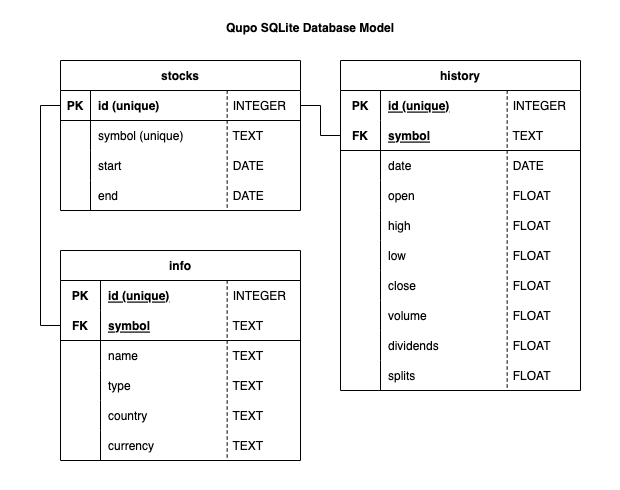
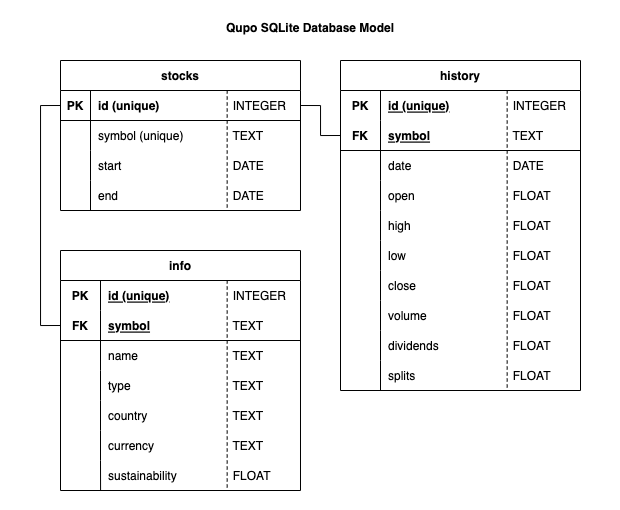
Use esg values from yfinance library instead from quandl

Changed region(s): [[0.0613, 0.0306, 0.9194, 0.7959], [0.0613, 0.4898, 0.4903, 0.9796], [0.4903, 0.1837, 0.521, 0.2143]]

diff --git a/api/qupo_backend/tickers_utilities.py b/api/qupo_backend/tickers_utilities.py
@@ -1,6 +1,5 @@
 import json
 
-import quandl
 import pandas as pd
 import yfinance
 from types import SimpleNamespace
@@ -11,8 +10,8 @@ from sqlalchemy.orm import Session
 from .config import settings
 from .db import crud, schemas
 from .db.operations import (save_finance_data, get_data_in_timeframe,
-                            update_history, deconstruct_yhistory)
-from .models.finance_classes import PortfoliosModel
+                            update_history, deconstruct_yhistory, get_sustainability)
+from .models.finance_classes import PortfolioModel
 
 
 def filter_stocks(stocks):
@@ -77,7 +76,7 @@ def get_data_of_symbol(stock: schemas.StockBase, db: Session):
             history = deconstruct_yhistory(yhistory)
 
             info = schemas.InfoCreate(symbol=stock.symbol, name=data.info['shortName'], type=data.info['quoteType'],
-                                      country=data.info['country'], currency=data.info['currency'])
+                                      country=data.info['country'], currency=data.info['currency'], sustainability=get_sustainability(data))
 
             return SimpleNamespace(**{'symbol': stock.symbol, 'start': stock.start,
                                       'end': stock.end, 'info': [info], 'history': history})
@@ -86,22 +85,16 @@ def get_data_of_symbol(stock: schemas.StockBase, db: Session):
     raise HTTPException(status_code=500, detail=f'Unable to return stock data of symbol: {stock.symbol}.')
 
 
-def extract_quandl_data(api_key=None, identifier='UPR/EXT'):
-    if api_key is None:
-        api_key = settings.nasdaq_api_key
-    return quandl.get_table(identifier, api_key=api_key, paginate=True)
-
-
-def stock_data_to_dataframe(portfolios_model: PortfoliosModel):
-    expected_rate_of_return_pa = pd.DataFrame(data=portfolios_model.expected_rates_of_return_pa,
-                                              index=portfolios_model.stocks_tickers,
+def stock_data_to_dataframe(portfolio_model: PortfolioModel):
+    expected_rate_of_return_pa = pd.DataFrame(data=portfolio_model.expected_rates_of_return_pa,
+                                              index=portfolio_model.stocks_tickers,
                                               columns=['RateOfReturn'])
-    expected_esg_ratings = pd.DataFrame(data=portfolios_model.expected_esg_ratings,
-                                        index=portfolios_model.stocks_tickers,
+    expected_esg_ratings = pd.DataFrame(data=portfolio_model.expected_esg_ratings,
+                                        index=portfolio_model.stocks_tickers,
                                         columns=['ESGRating'])
-    expected_covariance_pa = portfolios_model.expected_covariance_pa
-    expected_volatility_pa = pd.DataFrame(portfolios_model.expected_volatilities_pa,
-                                          index=portfolios_model.stocks_tickers,
+    expected_covariance_pa = portfolio_model.expected_covariance_pa
+    expected_volatility_pa = pd.DataFrame(portfolio_model.expected_volatilities_pa,
+                                          index=portfolio_model.stocks_tickers,
                                           columns=['Volatility'])
     return pd.concat([expected_rate_of_return_pa, expected_volatility_pa,
                       expected_esg_ratings, expected_covariance_pa], axis=1)

diff --git a/api/test/stockdata_integrator_runscript.py b/api/test/stockdata_integrator_runscript.py
@@ -3,10 +3,48 @@ import os.path
 import warnings
 import json
 import yfinance
-from qupo_backend.models.finance_classes import Stock, Portfolio, PortfoliosModel
-from qupo_backend.tickers_utilities import extract_quandl_data, stock_data_to_dataframe
+import quandl
+import numpy as np
+from dataclasses import dataclass, InitVar
+from qupo_backend.models.finance_classes import Stock, PortfolioModel
+import qupo_backend.models.finance_utilities as finance_utilities
+from qupo_backend.tickers_utilities import stock_data_to_dataframe
+from qupo_backend.config import settings
 
 sys.path.append(os.path.abspath(os.path.join(os.path.dirname(__file__), os.path.pardir)))
+
+
+@dataclass
+class Portfolio:
+    stocks: InitVar[list[Stock]]
+    stock_weights: InitVar[np.ndarray] = np.array([])
+    risk_free_return_pa: InitVar[float] = 0
+
+    def __post_init__(self, stocks, stock_weights, risk_free_return_pa):
+        self.stock_tickers = [stock.ticker for stock in stocks] + ['Acct']
+        self.stock_full_names = [stock.full_name for stock in stocks] + ['Bank Account']
+        if stock_weights.size == 0:
+            stock_weights = np.append(np.zeros(len(self.stock_tickers) - 1), 1)
+        elif np.sum(stock_weights) > 1:
+            stock_weights = stock_weights / np.sum(stock_weights)
+            print(f'Sum of stock weights >1, normalized to {stock_weights}')
+        self.price_time_series = np.dot(stock_weights, np.array(
+            [stock.price_time_series for stock in stocks] + [stocks[0].price_time_series * 0]))  # sum of weighted stock price time series
+        # annualized historic returns [%] and relative volatility (standart deviation of return) [%]
+        # annualized historic mean returns [%]
+        self.historic_rate_of_return_pa = finance_utilities.calc_historic_rate_of_return_pa(self.price_time_series)
+        # annualized historic volatility relative to hist. RoR pa[%]
+        self.historic_volatility_pa = finance_utilities.calc_historic_volatility_pa(self.price_time_series)
+        self.historic_sharpe_ratio = finance_utilities.calc_historic_sharpe_ratio(self.historic_rate_of_return_pa,
+                                                                                  risk_free_return_pa, self.historic_volatility_pa)
+        # sum of weighted stock price time series
+        self.historic_esg_value = np.dot(stock_weights, np.array(
+            [stock.historic_esg_value for stock in stocks] + [0]))
+
+
+def extract_quandl_data(api_key=None, identifier='UPR/EXT'):
+    quandl.ApiConfig.api_key = settings.nasdaq_api_key
+    return quandl.get_table(identifier, qopts={'columns': ['company_name', 'net_impact_ratio']})
 
 
 def extract_stock_tickers(scope='DAX'):
@@ -61,7 +99,7 @@ def portfolios_df_from_default_stock_data():
     print(portfolio)
 
     # setup mathematical model
-    portfolios_model = PortfoliosModel(stocks)
+    portfolios_model = PortfolioModel(stocks)
     print(portfolios_model)
 
     portfolios_model_df = stock_data_to_dataframe(portfolios_model)

diff --git a/api/qupo_backend/models/portfolio_model.py b/api/qupo_backend/models/portfolio_model.py
@@ -1,46 +1,35 @@
 import pandas as pd
 
-from .finance_classes import Stock, PortfoliosModel
+from .finance_classes import Stock, PortfolioModel
 from .finance_utilities import convert_business_to_osqp_model
 from .optimization_backend.backend_runner import Providers, run_job
 from .optimization_backend.optimization_classes import Problem, Job, Solver
 
 import qupo_backend.db.schemas as schemas
-from qupo_backend.tickers_utilities import get_data_of_symbol
-from qupo_backend.tickers_utilities import extract_quandl_data, stock_data_to_dataframe
+from qupo_backend.tickers_utilities import get_data_of_symbol, stock_data_to_dataframe
 
 
 def portfolio_df_from_stock_data(db, symbols, start='2018-01-01', end='2018-02-28'):
-    esg_data = extract_quandl_data()
-
     # create stock and portfolio objects for frontend
     stocks = []
 
     for symbol in symbols:
         stock_data = get_data_of_symbol(schemas.StockBase(symbol=symbol, start=start, end=end), db)
         if (stock_data):
-            try:
-                matches = [stock_data.info[0].name.startswith(company_name.upper()) for company_name in esg_data.company_name]
-                if any(matches):
-                    esg_data_value = esg_data[matches].net_impact_ratio.values[0]
-                else:
-                    esg_data_value = 0
-            except KeyError:
-                esg_data_value = 0
-
             close_values = [h.close for h in stock_data.history]
-            stock = Stock(pd.Series(data=close_values), ticker=symbol, full_name=stock_data.info[0].name, historic_esg_value=esg_data_value)
+            stock = Stock(pd.Series(data=close_values), ticker=symbol, full_name=stock_data.info[0].name,
+                          historic_esg_value=stock_data.info[0].sustainability)
             stocks = stocks + [stock]
 
     # setup mathematical model
-    portfolios_model = PortfoliosModel(stocks)
-    portfolios_model_df = stock_data_to_dataframe(portfolios_model)
+    portfolio_model = PortfolioModel(stocks)
+    portfolio_model_df = stock_data_to_dataframe(portfolio_model)
 
-    return portfolios_model_df
+    return portfolio_model_df, portfolio_model
 
 
 def calculate_model(db, model, symbols, risk_weight=0.0001, esg_weight=0.0001):
-    portfolio_model_df = portfolio_df_from_stock_data(db, symbols)
+    portfolio_model_df, portfolio_model = portfolio_df_from_stock_data(db, symbols)
     # create abstract representation of problem (to identify and leverage hidden structure)
     P, q, A, l, u = convert_business_to_osqp_model(portfolio_model_df, risk_weight, esg_weight)
 
@@ -67,6 +56,7 @@ def calculate_model(db, model, symbols, risk_weight=0.0001, esg_weight=0.0001):
 
     return {
         **data,
+        'stock_names': portfolio_model.stocks_full_names,
         'objective_value': job.result.objective_value,
         'rate_of_return': job.result.rate_of_return,
         'variance': job.result.variance,

diff --git a/api/qupo_backend/models/finance_classes.py b/api/qupo_backend/models/finance_classes.py
@@ -27,45 +27,16 @@ class Stock:
 
 
 @dataclass
-class Portfolio:
-    stocks: InitVar[list[Stock]]
-    stock_weights: InitVar[np.ndarray] = np.array([])
-    risk_free_return_pa: InitVar[float] = 0
-
-    def __post_init__(self, stocks, stock_weights, risk_free_return_pa):
-        self.stock_tickers = [stock.ticker for stock in stocks] + ['Acct']
-        self.stock_full_names = [stock.full_name for stock in stocks] + ['Bank Account']
-        if stock_weights.size == 0:
-            stock_weights = np.append(np.zeros(len(self.stock_tickers) - 1), 1)
-        elif np.sum(stock_weights) > 1:
-            stock_weights = stock_weights / np.sum(stock_weights)
-            print(f'Sum of stock weights >1, normalized to {stock_weights}')
-        self.price_time_series = np.dot(stock_weights, np.array(
-            [stock.price_time_series for stock in stocks] + [stocks[0].price_time_series * 0]))  # sum of weighted stock price time series
-        # annualized historic returns [%] and relative volatility (standart deviation of return) [%]
-        # annualized historic mean returns [%]
-        self.historic_rate_of_return_pa = finance_utilities.calc_historic_rate_of_return_pa(self.price_time_series)
-        # annualized historic volatility relative to hist. RoR pa[%]
-        self.historic_volatility_pa = finance_utilities.calc_historic_volatility_pa(self.price_time_series)
-        self.historic_sharpe_ratio = finance_utilities.calc_historic_sharpe_ratio(self.historic_rate_of_return_pa,
-                                                                                  risk_free_return_pa, self.historic_volatility_pa)
-        # sum of weighted stock price time series
-        self.historic_esg_value = np.dot(stock_weights, np.array(
-            [stock.historic_esg_value for stock in stocks] + [0]))
-
-
-@dataclass
-class PortfoliosModel():
+class PortfolioModel():
     stocks: InitVar[list[Stock]]
     risk_free_return_pa: InitVar[float] = 0.0
 
     def __post_init__(self, stocks, risk_free_return_pa):
-        stocks_full_names = ['Bank Account']
-        stocks_tickers = ['Acct']
-        stocks_esg_data = [0.0]
-        stocks_expected_rate_of_return_pa = np.array([0.0])
-        stocks_time_series = stocks[0].price_time_series * 0.0 + 1.0
-        stocks_time_series = stocks_time_series.to_frame(name=stocks_tickers[0])
+        stocks_full_names = []
+        stocks_tickers = []
+        stocks_esg_data = []
+        stocks_expected_rate_of_return_pa = np.array([])
+        stocks_time_series = pd.DataFrame()
 
         for stock in stocks:
             stocks_full_names = stocks_full_names + [stock.full_name]

diff --git a/api/qupo_backend/db/operations.py b/api/qupo_backend/db/operations.py
@@ -20,6 +20,12 @@ def get_data_from_yahoo(symbol: str, period: str):
     return data, yhistory
 
 
+def get_sustainability(data):
+    if (data.sustainability is not None):
+        return data.sustainability.loc['totalEsg']['Value']
+    return 0
+
+
 def construct_history_row(date, rowData):
     cleanedRowData = [0 if value is None else value for value in rowData]
 
@@ -42,8 +48,9 @@ def save_finance_data(db: Session, stock: schemas.StockBase):
 
     if (len(yhistory['data']) > 0):
         history = deconstruct_yhistory(yhistory)
-        info = schemas.InfoCreate(name=data.info['shortName'], type=data.info['quoteType'],
-                                  country=data.info['country'], currency=data.info['currency'])
+        sustainability = get_sustainability(data)
+        info = schemas.InfoCreate(name=data.info['shortName'], type=data.info['quoteType'], country=data.info['country'],
+                                  currency=data.info['currency'], sustainability=sustainability)
 
         crud.create_stock(db, stock)
         crud.create_stock_info(db, info, stock.symbol)

diff --git a/api/qupo_backend/db/crud.py b/api/qupo_backend/db/crud.py
@@ -31,8 +31,8 @@ def create_stock(db: Session, stock: schemas.StockCreate):
 
 
 def create_stock_info(db: Session, info: schemas.InfoCreate, symbol: str):
-    db_info = models.Info(symbol=symbol, name=info.name, type=info.type,
-                          country=info.country, currency=info.currency)
+    db_info = models.Info(symbol=symbol, name=info.name, type=info.type, country=info.country,
+                          currency=info.currency, sustainability=info.sustainability)
     db.add(db_info)
     return db_info
 

diff --git a/api/qupo_backend/config.py b/api/qupo_backend/config.py
@@ -10,7 +10,6 @@ class Settings(BaseSettings):
     azure_name: str
     azure_subscription_id: str
     ibmq_client_secret: str
-    nasdaq_api_key: str
     use_db: bool = True
     sqllite_db_url: str = 'sqlite:///./qupo_backend/db/finance.db'
 

diff --git a/api/qupo_backend/db/models.py b/api/qupo_backend/db/models.py
@@ -25,6 +25,7 @@ class Info(Base):
     type = Column(String)
     country = Column(String)
     currency = Column(String)
+    sustainability = Column(Float)
 
     stock = relationship('Stock', back_populates='info')
 

diff --git a/api/qupo_backend/db/schemas.py b/api/qupo_backend/db/schemas.py
@@ -31,6 +31,7 @@ class InfoBase(BaseModel):
     type: str
     country: str
     currency: str
+    sustainability: float
 
 
 class InfoCreate(InfoBase):
